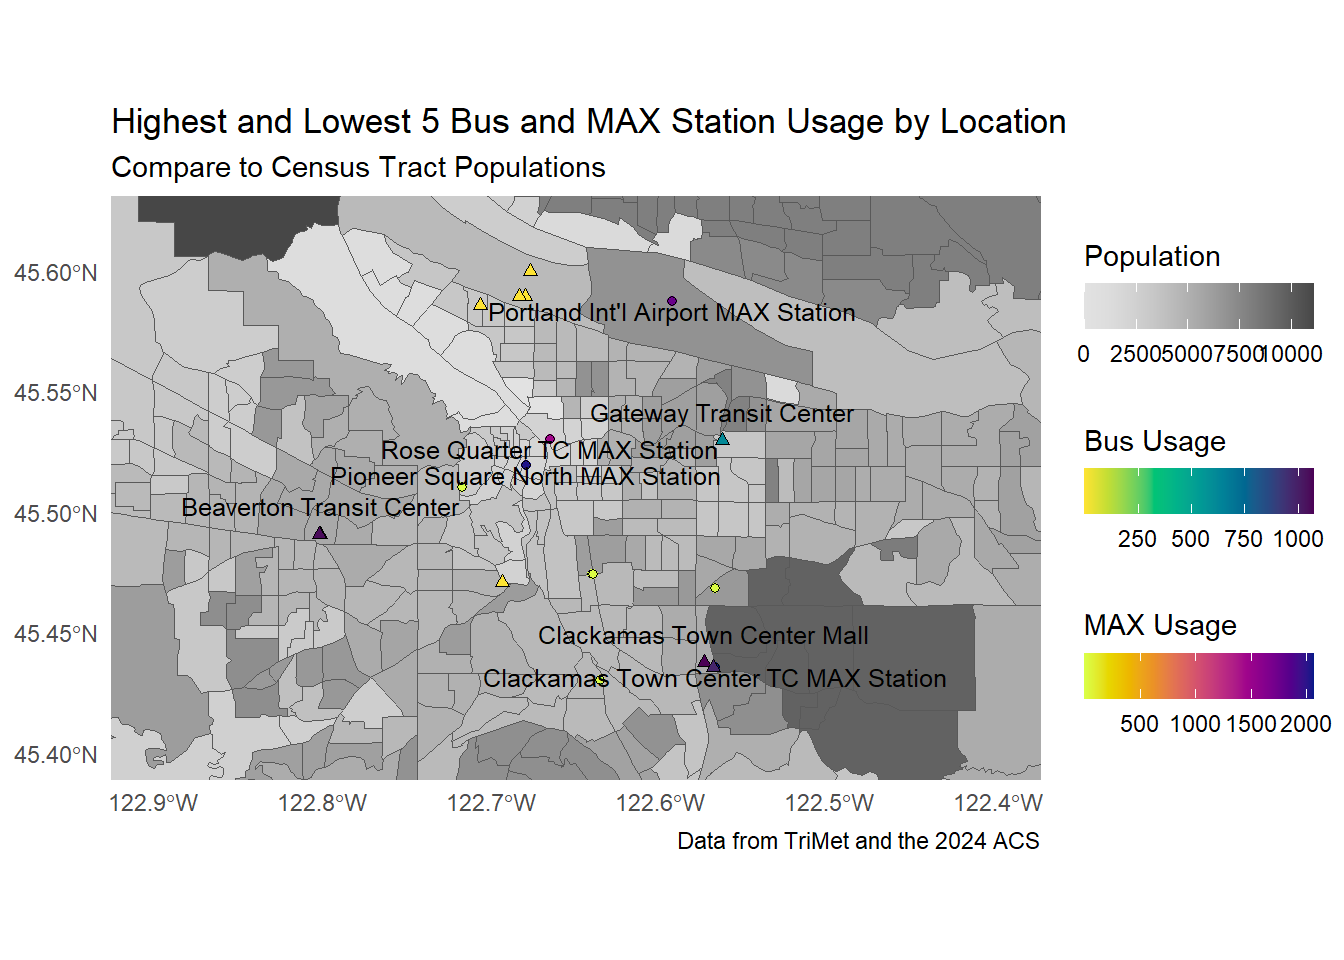
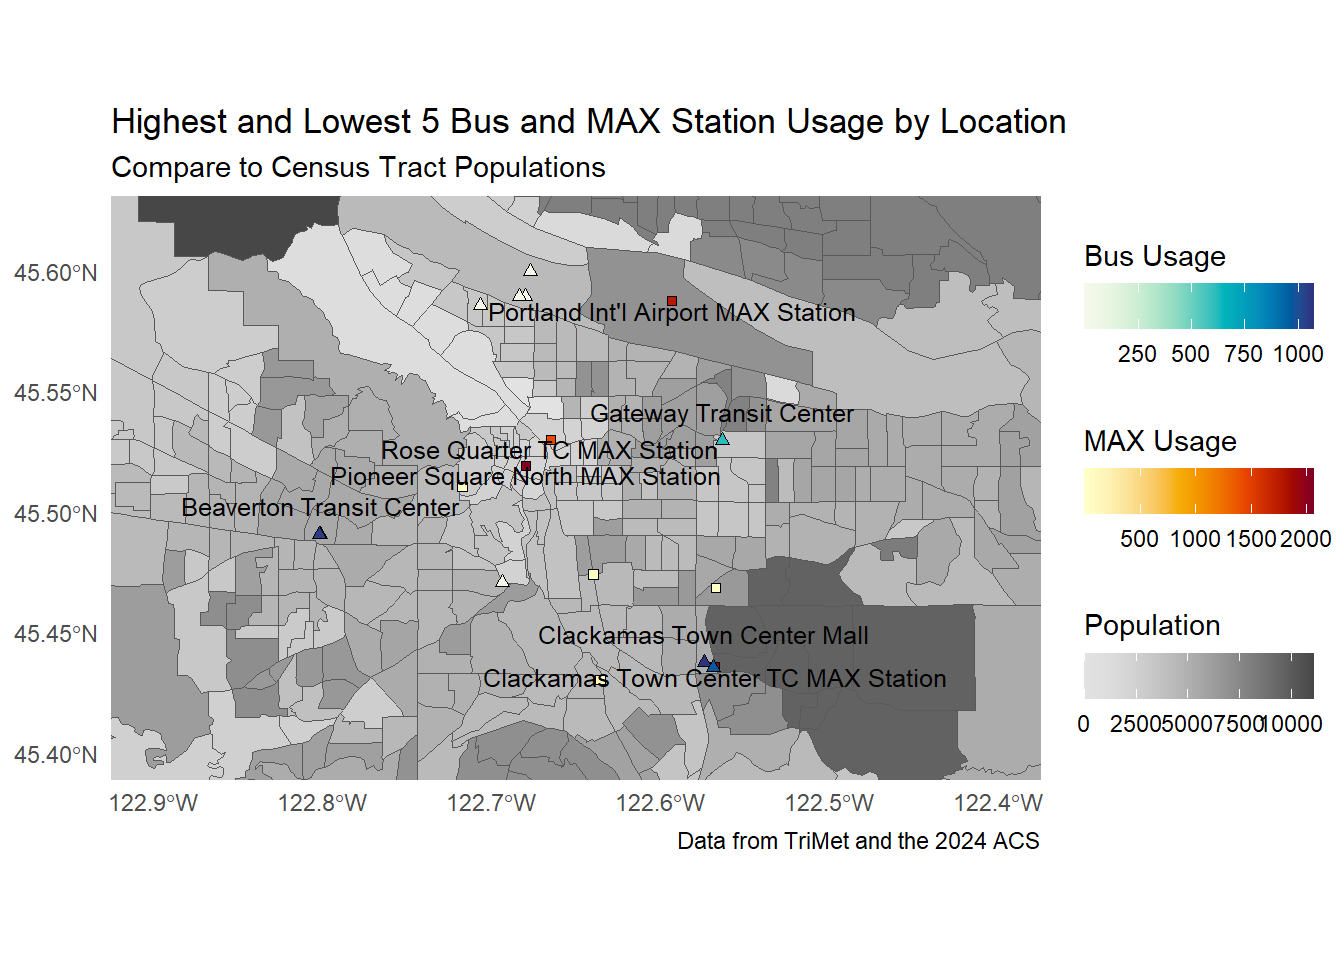
final edits

diff --git a/_06_conclusions.html b/_06_conclusions.html
@@ -80,14 +80,14 @@ window.Quarto = {
 <h1>Discussion</h1>
 <section id="project-overview" class="level2">
 <h2 class="anchored" data-anchor-id="project-overview">Project Overview</h2>
-<p>Over the course of this project, we went through the data collection and engineering process as well as modeling usage using statistical and machine learning-based regressions. Two types of data were collected from the TriMet website: usage information by station for Spring 2025, and schedule information for each station. These values were uploaded into a publicly-available database, as well as transformed into a number of features for use in predicting the usage value of a station.</p>
-<p>We used this data to create a number of statistical and machine learning models. From these models, we were able to learn that our features had measurable effects on station usage, and that we could use these features to predict usage with relatively good accuracy.</p>
-<p>Our Quasi-Poisson models provided a number of insights into what features have effects on TriMet station usage. We found that a number of our features had positive effects on usage, and a number of them had negative effects on usage. Some of the most salient was the decrease in usage on weekend days, and the fact that adding an additional route to a station increases its usage by 20%. We also discovered that for each minute there is not an arrival at a station, the station’s usage drops by about 5%.</p>
+<p>Over the course of this project, we went through the data collection and engineering process as well as modeled usage using statistical and machine learning-based regressions. Two types of data were collected from the TriMet website: usage information by station for Spring 2025, and schedule information for each station. These values were uploaded into a publicly-available database, as well as transformed into a number of features that were used in predicting the usage value of a station.</p>
+<p>We used this data to create a number of statistical and machine learning models. From these models, we were able to learn that our features had measurable effects on station usage, and that we could use these features to predict usage with relatively high accuracy.</p>
+<p>Our Quasi-Poisson models provided a number of insights into what features have effects on TriMet station usage. We found that a number of our features had positive effects on usage, and a number of them had negative effects on usage. Some of the most salient was the decrease in usage on weekend days, and the fact that adding an additional route to a station increases its usage by 20%. We also discovered that for each additional minute there is not an arrival at a station, the station’s usage drops by about 5%.</p>
 <p>We created a number of machine learning models that predicted station usage from the features engineered for this data set. The best model we found, a random forest, had a test RMSE of 0.685 and an <span class="math inline">\(R^2\)</span> value of 0.523. This model is further illustrated in <strong>?@fig-ml</strong>. The model consistently over-predicted values in the low-usage range and under-predicted values in the high-usage range. The low-usage overprediction is likely a result of the log-transform (as can be seen in <strong>?@fig-ml</strong>). Overall, this model can be used to provide estimates, but it would benefit from adding features such as location data to improve prediction accuracy.</p>
 </section>
 <section id="future-work" class="level2">
 <h2 class="anchored" data-anchor-id="future-work">Future Work</h2>
-<p>In some ways, it is not a surprise that schedule data alone does not account for all the features driving usage of TriMet stations. Future work done on the question explored in this project would benefit highly from the inclusion of accurate location data for each station stop, which was unfortunately not easily available within the timeframe of this project. Potential features included alongside location data could be those that provide context to the neighborhood the station is located in by answering questions such as:</p>
+<p>In some ways, it is not a surprise that schedule data alone does not account for all the features driving usage of TriMet stations. Future work done on the question explored in this project would benefit highly from the inclusion of accurate location data for each station stop, which was unfortunately not easily available within the timeframe of this project. Potential features included alongside location data could be those that provide context to the area the station is located in by answering questions such as:</p>
 <ul>
 <li>How many people live within a certain radius?</li>
 <li>Is this station part of a transit center?</li>
@@ -95,8 +95,10 @@ window.Quarto = {
 <li>How close is this station to frequently-visited areas, such as parks or grocery stores?</li>
 </ul>
 <p>Answers to these questions and others like them would allow for a holistic understanding of the station, rather than focusing on the schedule as set up by TriMet.</p>
+<section id="location-proof-of-concept" class="level3">
+<h3 class="anchored" data-anchor-id="location-proof-of-concept">Location Proof of Concept</h3>
 <p>We were able to conduct a small amount of preliminary analysis that indicates location data would be a meaningful predictor in future models.</p>
-<p>Another capstone group kindly allowed us to use their data that provides coordinates of intersections in downtown Portland, which we were able to use to cross-reference our stations with names that followed the “Street Name &amp; Street Name” format. There were 4,706 stations with names in this format that overlapped with the reference table we had access to. Unfortunately, the cross-referencing strategy used was particularly reliable, and as such stations were not always assigned the correct coordinates. This particular location dataset had minimal, if any, effect on models trained using it alongside our engineered features. However, we were able to use this location data to produce <a href="#fig-loc-map" class="quarto-xref">Figure&nbsp;1</a>, below, which shows that high-usage stations are often clustered together. This leads us to believe that a correctly-gathered location dataset would in fact make a good predictor in future models.</p>
+<p>Another capstone group kindly allowed us to use their data that provides coordinates for intersections in downtown Portland, which we cross-referenced with our stations that had names in “Street Name &amp; Street Name” format. There were 4,706 stations with names in this format that overlapped with the reference table. Unfortunately, the cross-referencing strategy used was not particularly reliable, and as such stations were not always assigned the correct coordinates. This particular location dataset had minimal, if any, effect on models trained using it alongside our engineered features. However, we were able to use this location data to produce <a href="#fig-loc-map" class="quarto-xref">Figure&nbsp;1</a>, below, which shows that high-usage stations are often clustered together. This leads us to believe that a correctly-gathered location dataset would in fact make a good predictor in future models.</p>
 <div class="cell">
 <div class="cell-output-display">
 <div id="fig-loc-map" class="quarto-float quarto-figure quarto-figure-center anchored">
@@ -111,7 +113,7 @@ Figure&nbsp;1: A map of bus station usage by location, using our cross-reference
 </div>
 </div>
 </div>
-<p>In the later stages of our analysis, we found that there is in fact a way to extract TriMet stop locations from the maps provided on the TriMet website. It was too involved to be able to webscrape within the time restrictions of this project, but we manually extracted the locations of the 5 highest- and lowest-usage MAX and bus stations in the TriMet system. This resulted in a dataset of 20 stations with location information. This dataset was combined with census tract population data retrieved from the 2024 American Community Survey <span class="citation" data-cites="acs">[@acs]</span> to produce <a href="#fig-loc-pop" class="quarto-xref">Figure&nbsp;2</a>. It can be seen that population has an effect on transit usage: the cluster of high-usage station of both types in the bottom left of <a href="#fig-loc-pop" class="quarto-xref">Figure&nbsp;2</a> at the Clackamas Town Center are very near a high-population area. It can also be seen that most of the lowest-usage bus stations are clustered together in a relatively low-population census tract, in the north of this map. Additionally, two of the highest-usage MAX stations are close together in the Portland downtown. <a href="#fig-loc-pop" class="quarto-xref">Figure&nbsp;2</a> provides a compelling argument for the inclusion of location and neighborhood context data in any future investigation of this topic.</p>
+<p>In the later stages of our analysis, we found that there is in fact a way to extract TriMet stop locations from the maps provided on the TriMet website. Accessing this data was too complex to be a feasible webscrape within the time restrictions of this project, but we manually extracted the locations of the 5 highest- and lowest-usage MAX and bus stations in the TriMet system. This resulted in a dataset of 20 stations with location information. This dataset was combined with census tract population data retrieved from the 2024 American Community Survey <span class="citation" data-cites="acs">[@acs]</span> to produce <a href="#fig-loc-pop" class="quarto-xref">Figure&nbsp;2</a>. It can be seen that population has an effect on transit usage: the cluster of high-usage stations of both types in the bottom left of <a href="#fig-loc-pop" class="quarto-xref">Figure&nbsp;2</a> at the Clackamas Town Center are very near to a high-population area. It can also be seen that most of the lowest-usage bus stations are clustered together in a relatively low-population census tract, in the north of this map. Additionally, two of the highest-usage MAX stations are close together in the Portland downtown. <a href="#fig-loc-pop" class="quarto-xref">Figure&nbsp;2</a> provides a compelling argument for the inclusion of location and neighborhood context data in any future investigation of this topic.</p>
 <div class="cell">
 <div class="cell-output-display">
 <div id="fig-loc-pop" class="quarto-float quarto-figure quarto-figure-center anchored">
@@ -120,16 +122,17 @@ Figure&nbsp;1: A map of bus station usage by location, using our cross-reference
 <img src="_06_conclusions_files/figure-html/fig-loc-pop-1.png" class="img-fluid figure-img" width="672">
 </div>
 <figcaption class="quarto-float-caption-bottom quarto-float-caption quarto-float-fig" id="fig-loc-pop-caption-0ceaefa1-69ba-4598-a22c-09a6ac19f8ca">
-Figure&nbsp;2: The top 5 highest and lowest-usage MAX stations (circles) and bus stations (triangles), overlaid on census tract population estimates from the 2024 ACS. The clusters of high- and low-usage stations provide a compelling argument for location data and neighborhood population as meaningful predictors for usage.
+Figure&nbsp;2: The top 5 highest- and lowest-usage MAX stations (squares) and bus stations (triangles), overlaid on census tract population estimates from the 2024 ACS. High-usage stations are labelled with their station name. The clusters of high- and low-usage stations provide a compelling argument for location data and neighborhood population as meaningful predictors for usage.
 </figcaption>
 </figure>
 </div>
 </div>
 </div>
 </section>
+</section>
 <section id="in-conclusion" class="level2">
 <h2 class="anchored" data-anchor-id="in-conclusion">In Conclusion</h2>
-<p>This report provides a high-level analysis of TriMet usage data. We provide a publicly-available database of TriMet usage data by station for Spring 2025, which also includes schedule information for each station. This data was used to engineer a handful of features that were used in statistical models to determine their effect on usage, as well as predict station usage with relatively high accuracy. The database as well and features engineered in this project provide a strong starting point for future work. We believe future work that provides information such as location data and neighborhood context to stations is likely to improve these models’ ability to predict TriMet station usage, and be used to determine where a station could be added or which routes should run more often to result in higher usage.</p>
+<p>This report provides a publicly-available analysis of TriMet usage data. We provide a publicly-available database of TriMet usage data by station for Spring 2025, which also includes schedule information for each station. This data was used to engineer a number of features that were used in statistical models to determine their effect on usage, as well as predict station usage with relatively high accuracy. The database as well as features engineered in this project provide a strong starting point for future work. We believe future work that provides information such as location data and neighborhood context to stations is likely to improve these models’ ability to predict TriMet station usage, and be used to determine where a station could be added or which routes should run more often to result in higher usage.</p>
 </section>
 </section>
 
